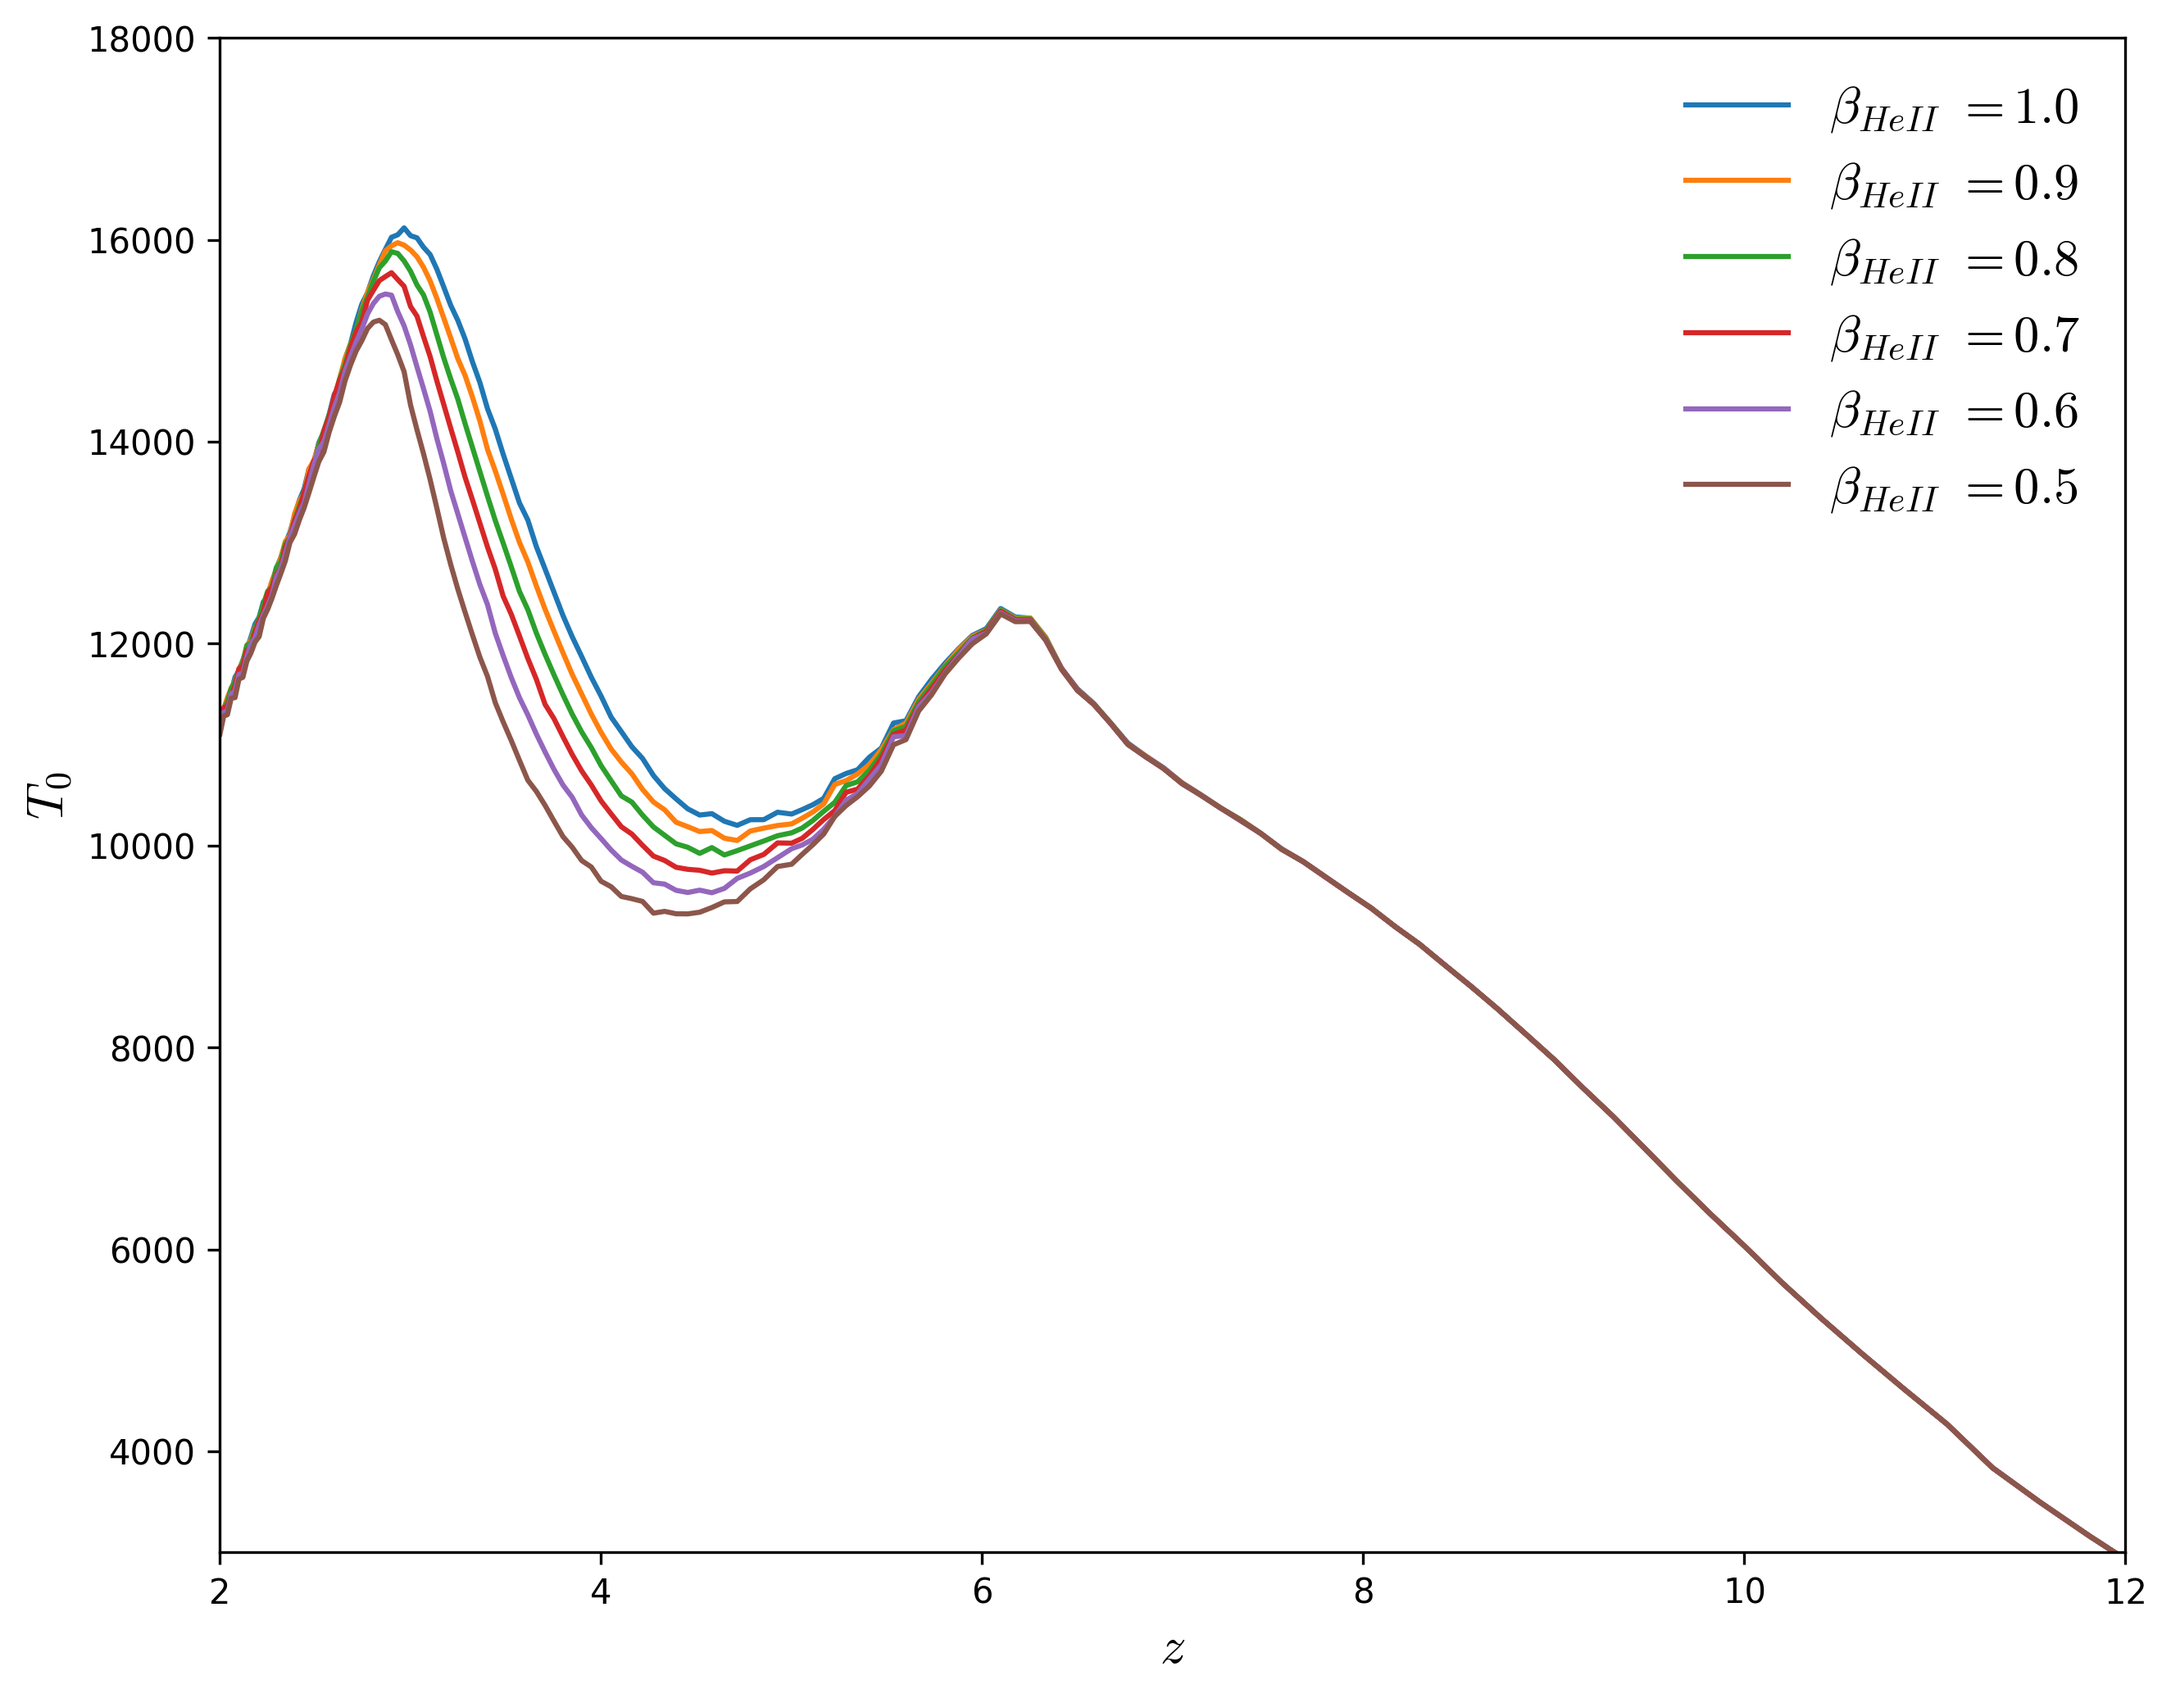
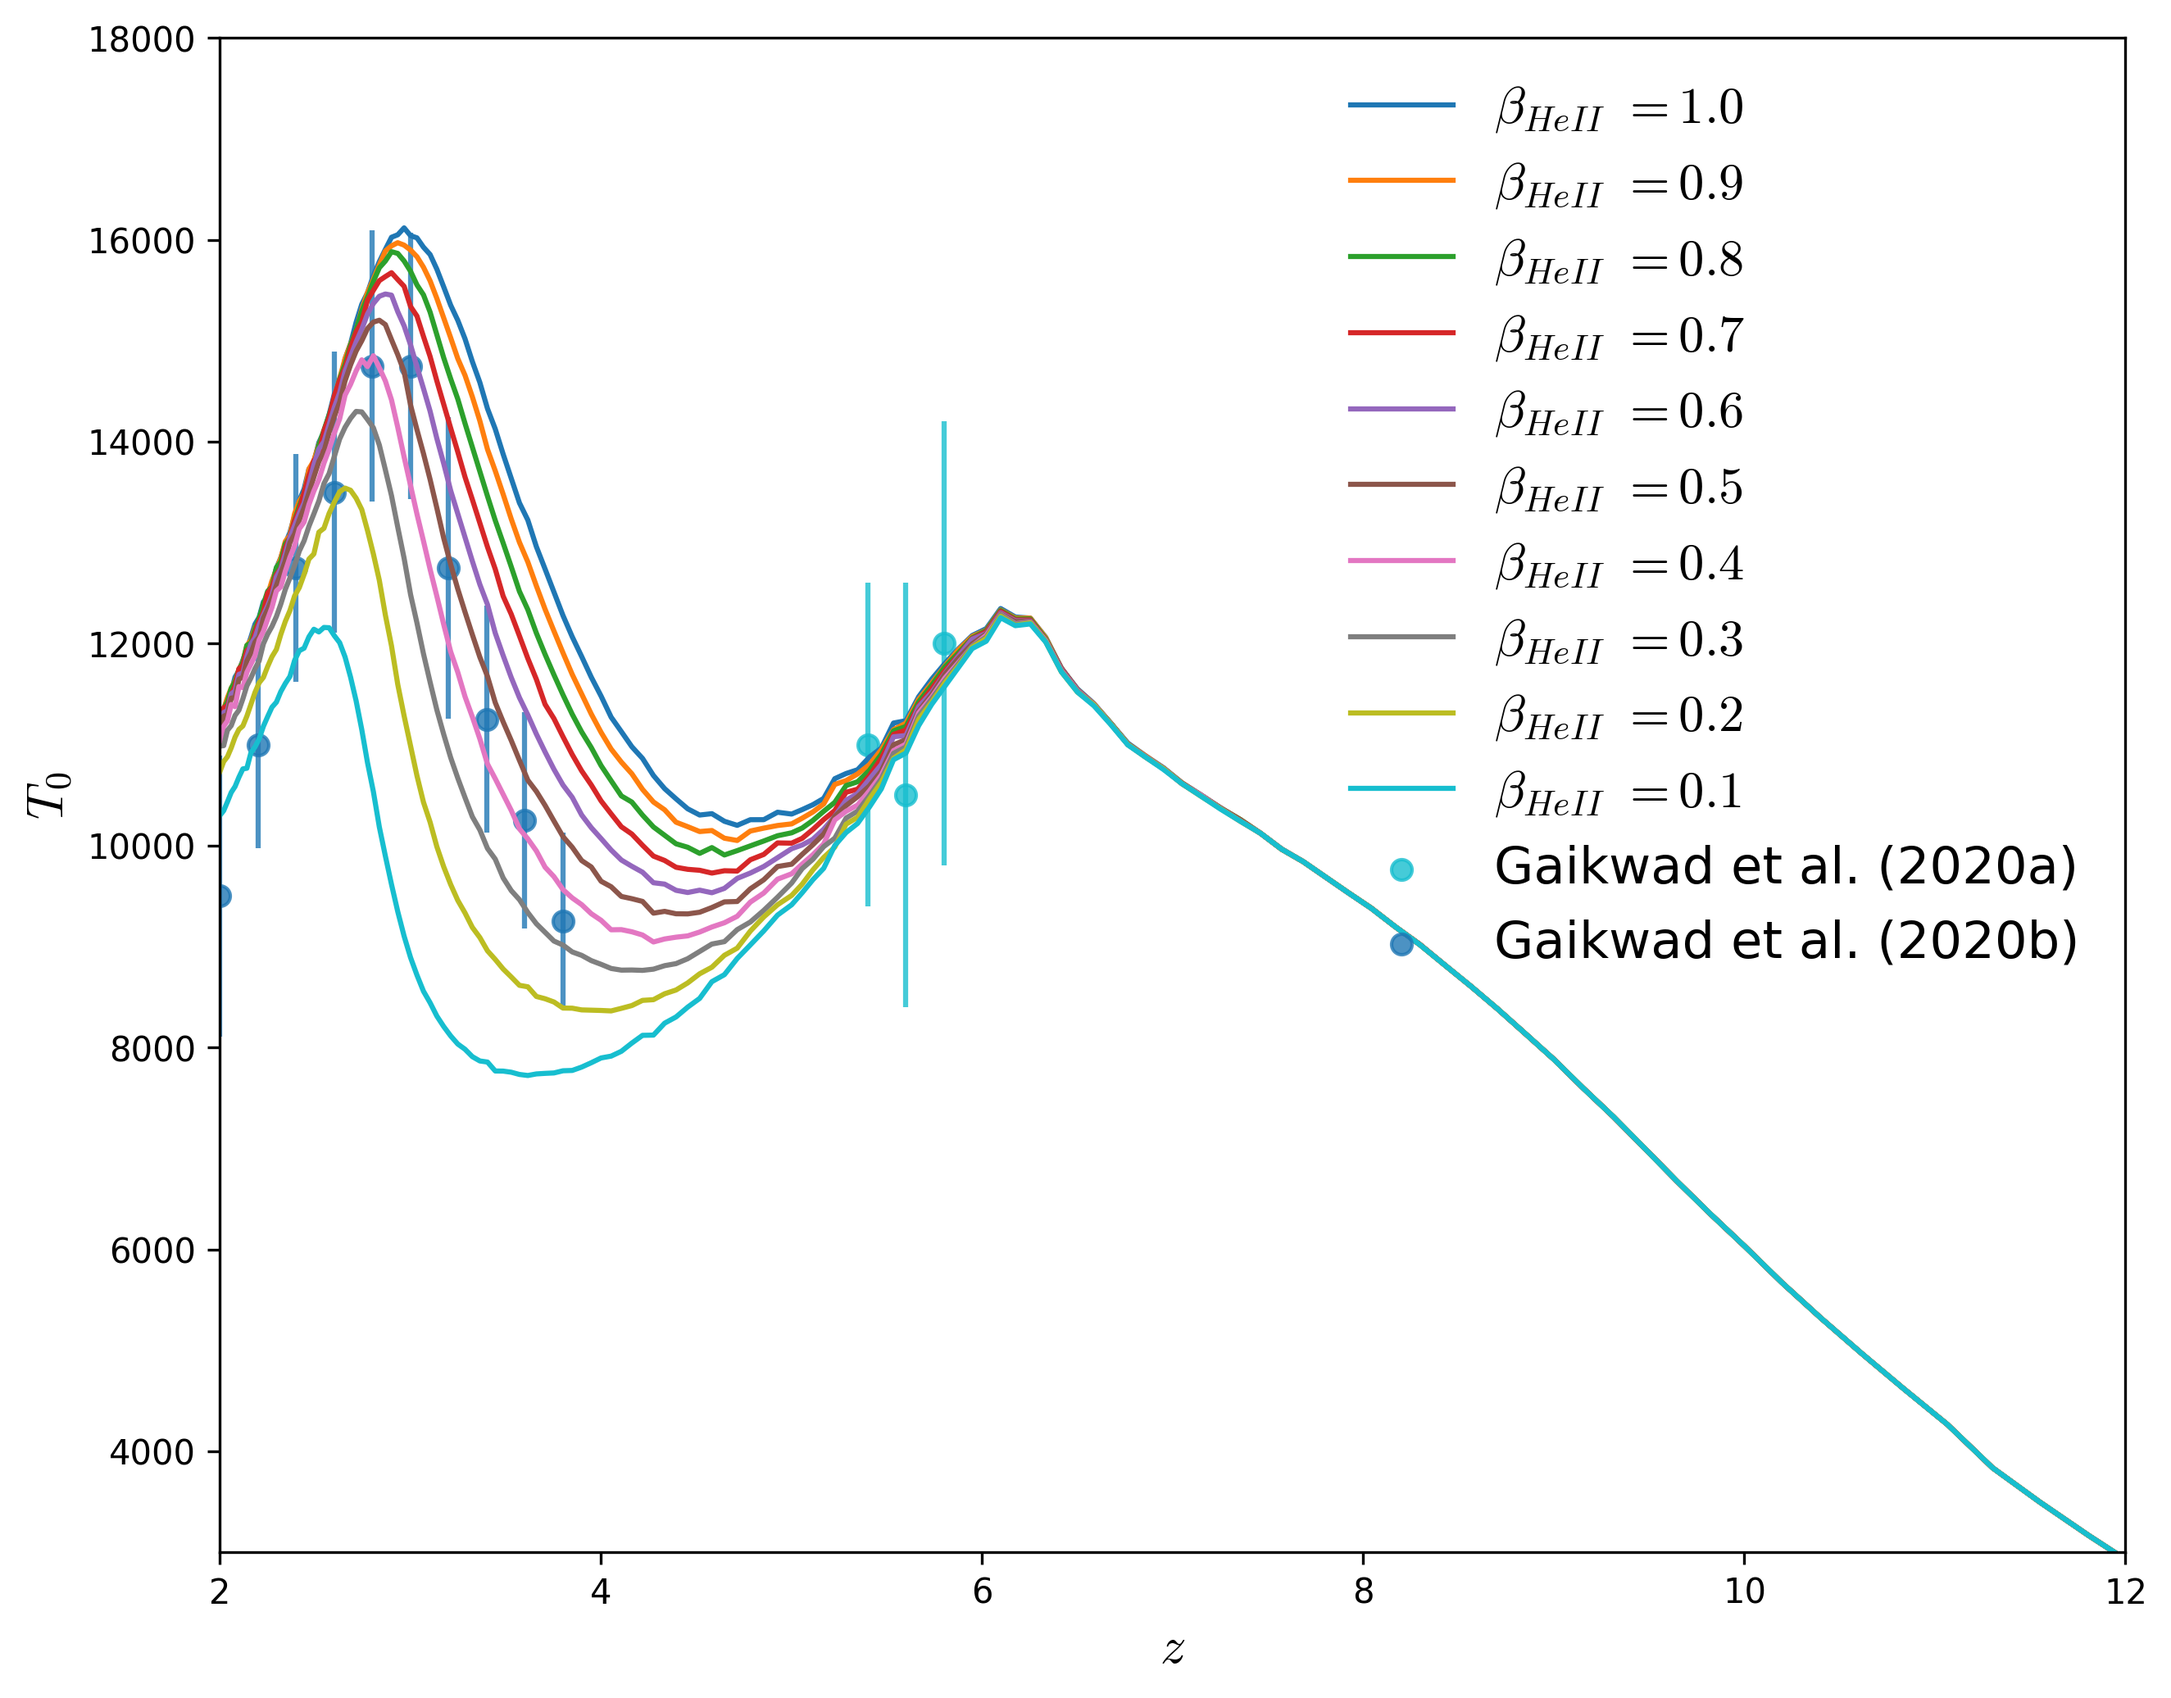
updated plot

diff --git a/astro/_posts/2020-11-01-grid_T0_and_taueff.md b/astro/_posts/2020-11-01-grid_T0_and_taueff.md
@@ -10,5 +10,30 @@ categorines: cholla
 
 
 
+Comapred to the results from my one-cell analytical model:
+
+<img src="{{ site.url }}assets/images/new_temp_evolution_HeII_scale.png">
+
+From an MCMC sampling over the **scale_He** parameter the posterior distribution is shown below, vertical lines show the mean and the 2-sigma interval: 
+
+
+<img src="{{ site.url }}assets/images/scale_He.png">
+
+
+
+If I sample T0 from the the **scale_He** distribution obtained and compare to the data:
+
+
+
+<img src="{{ site.url }}assets/images/mcmc_phase_diagram.png">
+
+
+
+
+
+Finally, for the fit I only compared against the Gaikwad T0 data since the effect of  changing **scale_He** in the optical depth is not very significant but I'll extend to fit against $$\tau_{eff}$$ when doing the multi-parameter fit:
+
 
 <img src="{{ site.url }}assets/images/grid_optical_depth.png">
+
+
